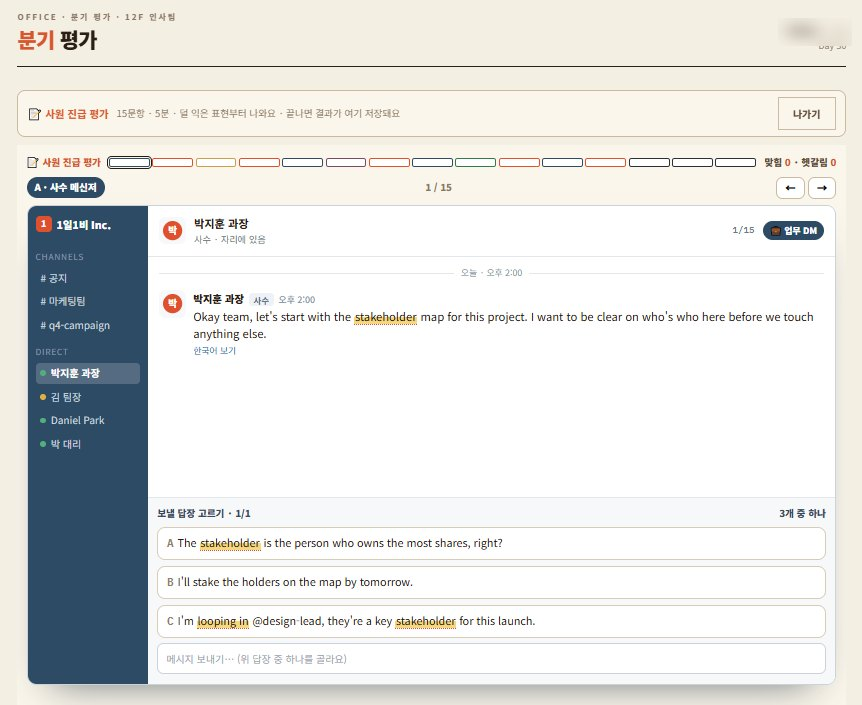
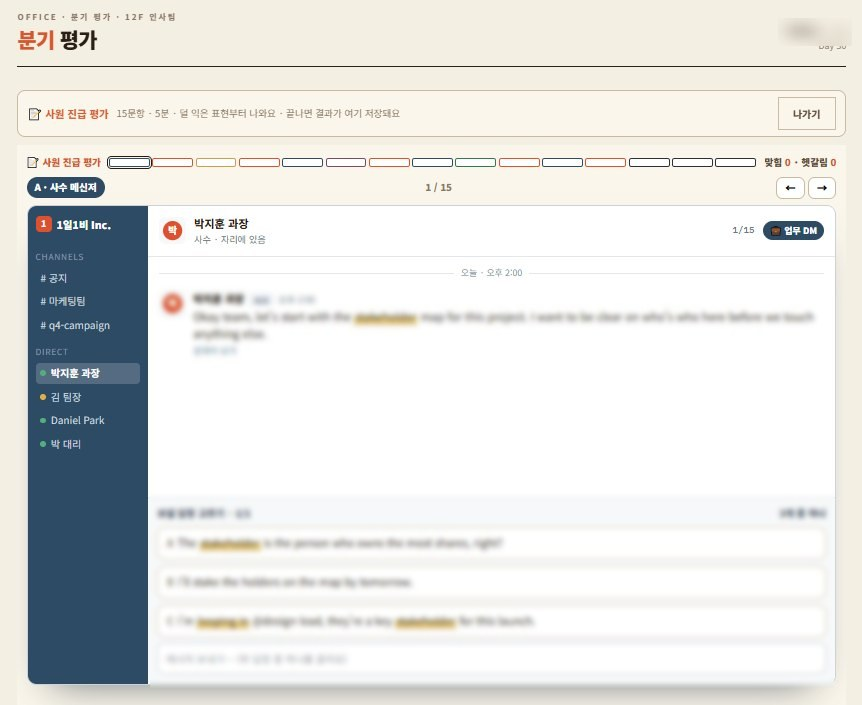
onboarding-jiheun: 글자 크기 10% 단위, 후기 자동 흐름, 섹션 강조, 플랜 테두리 정리
- 글자 크기 가-/100%/가+ (50~150%, 10%씩)
- 후기 숫자 변경, 한마디 띠 강조, 후기 카드 자동으로 흐르게
- AS SEEN ON, WHY 제목 강조, WHY 설명 문구 삭제
- 진급 시험·리포트 화면 내용 약하게 블러
- 웰컴 키트 대상 플랜 강조, 달력 3종 중 택1
- 플랜 주황 테두리는 패스트트랙만, 사은품 칩 톤 통일, 인턴 미포함 강조

Claude-Session: https://claude.ai/code/session_014xD68pVUsVy62miij5X9xC

diff --git a/onboarding-jiheun.html b/onboarding-jiheun.html
@@ -1030,8 +1030,8 @@ function WelcomeScreenV3({ onNext, initialLogin }) {
   const [journal, setJournal] = useState("");
   const [jrLoading, setJrLoading] = useState(false);
   const [jrFb, setJrFb] = useState(null);          // 일지 AI 피드백 (실제 mentor-feedback 함수 호출)
-  const [fontScale, setFontScale] = useState(() => { try { const v = parseFloat(localStorage.getItem("od_fs")); return v >= 0.85 && v <= 1.2 ? v : 1; } catch (e) { return 1; } });  // 글자 크기 (보는 사람이 고름)
-  const _setFs = (v) => { setFontScale(v); try { localStorage.setItem("od_fs", String(v)); } catch (e) {} try { track("font_scale", { v: v }); } catch (e) {} };
+  const [fontScale, setFontScale] = useState(() => { try { const v = parseFloat(localStorage.getItem("od_fs")); return v >= 0.5 && v <= 1.5 ? Math.round(v * 10) / 10 : 1; } catch (e) { return 1; } });  // 글자 크기 (보는 사람이 고름)
+  const _setFs = (v) => { v = Math.min(1.5, Math.max(0.5, Math.round(v * 10) / 10)); setFontScale(v); try { localStorage.setItem("od_fs", String(v)); } catch (e) {} try { track("font_scale", { v: v }); } catch (e) {} };
 
   const askJournalAi = async () => {
     if (jrLoading) return;
@@ -1407,6 +1407,7 @@ function WhyMock({ kind }) {
       @keyframes odRise { from { transform: translateY(10px); opacity: 0; } to { transform: translateY(0); opacity: 1; } }
       .od-rise { animation: odRise 0.4s ease both; }
       @keyframes odTicker { from { transform: translateX(0); } to { transform: translateX(-50%); } }
+      .od-rv-track:hover, .od-rv-track:active { animation-play-state: paused !important; }
       .od-ticker-track { display: inline-flex; white-space: nowrap; animation: odTicker 72s linear infinite; will-change: transform; font-family: "JetBrains Mono", monospace; }
       .od-bar-cta-short { display: none; }
       /* ★ 2026-09-13: 하단 고정 CTA. 엄지가 닿는 자리라 모바일에서만 (데스크톱은 상단바로 충분) */
@@ -1439,11 +1440,12 @@ function WhyMock({ kind }) {
         <div className="od-bar-title" style={{ fontSize: 12.5, fontWeight: 800, color: "var(--ink)", whiteSpace: "nowrap", overflow: "hidden", textOverflow: "ellipsis" }}>
           1일1비 <span className="od-bar-sub" style={{ fontWeight: 600, color: "var(--ink-mute)" }}>· 신입 공채 접수 중</span>
         </div>
-        <div role="group" aria-label="글자 크기" style={{ display: "inline-flex", flexShrink: 0, border: "1px solid var(--line)", borderRadius: 8, overflow: "hidden", marginLeft: "auto" }}>
-          {[[0.9, 11, "작게"], [1, 13.5, "보통"], [1.12, 16, "크게"]].map(o => (
-            <button key={o[0]} onClick={() => _setFs(o[0])} aria-label={"글자 " + o[2]} aria-pressed={fontScale === o[0]}
-              style={{ width: 30, height: 32, border: "none", borderLeft: o[0] === 0.9 ? "none" : "1px solid var(--line)", background: fontScale === o[0] ? "var(--ink)" : "transparent", color: fontScale === o[0] ? "var(--paper)" : "var(--ink)", fontSize: o[1], fontWeight: 900, cursor: "pointer", fontFamily: "inherit", padding: 0, lineHeight: 1 }}>가</button>
-          ))}
+        <div role="group" aria-label="글자 크기" style={{ display: "inline-flex", alignItems: "center", gap: 4, flexShrink: 0, marginLeft: "auto" }}>
+          {[[-0.1, "가-", "글자 작게"], [0, null, null], [0.1, "가+", "글자 크게"]].map(o => o[1] === null
+            ? <button key="fs" onClick={() => _setFs(1)} aria-label="글자 크기 원래대로" style={{ minWidth: 38, border: "none", background: "transparent", color: "var(--ink-soft)", fontSize: 11, fontWeight: 800, cursor: "pointer", fontFamily: "inherit", padding: 0, fontVariantNumeric: "tabular-nums" }}>{Math.round(fontScale * 100)}%</button>
+            : <button key={o[1]} onClick={() => _setFs(fontScale + o[0])} aria-label={o[2]} disabled={o[0] < 0 ? fontScale <= 0.5 : fontScale >= 1.5}
+                style={{ height: 30, padding: "0 7px", border: "1px solid var(--line)", borderRadius: 8, background: "var(--paper)", color: "var(--ink)", fontSize: 12, fontWeight: 900, cursor: "pointer", fontFamily: "inherit", lineHeight: 1, opacity: (o[0] < 0 ? fontScale <= 0.5 : fontScale >= 1.5) ? 0.35 : 1 }}>{o[1]}</button>
+          )}
         </div>
         <button onClick={() => setShowEnter(true)} className="od-bar-enter"
           style={{ flexShrink: 0, background: "transparent", color: "var(--ink)", border: "1.5px solid var(--ink)", borderRadius: 8, padding: "8px 14px", fontSize: 12, fontWeight: 800, cursor: "pointer", fontFamily: "inherit", whiteSpace: "nowrap" }}>
@@ -1647,7 +1649,7 @@ function WhyMock({ kind }) {
       {/* ── 후기: 설문 숫자 + 흐르는 한마디 + 후기 카드 + 요청이 반영된 것 ── */}
       <SectionTitle eyebrow="REVIEWS" title="먼저 다녀본 분들의 이야기" sub="멤버 설문·30일 수료 회고에서 그대로 가져왔어요. 이름은 빼고 Day만 남겼어요." />
       <div style={{ display: "grid", gridTemplateColumns: "repeat(3, minmax(0, 1fr))", gap: 6, marginBottom: 12 }}>
-        {[["4.4", "/ 5", "설문 만족도 평균"], ["8건", "★5", "만점 응답"], ["Day 89", "★5", "90일 가까이 다닌 멤버"]].map(s => (
+        {[["4.8", "/ 5", "설문 만족도 평균"], ["100점", "", "30일 수료 시험"], ["Day 89", "★5", "90일 가까이 다닌 멤버"]].map(s => (
           <div key={s[2]} style={{ background: "var(--ink)", color: "var(--paper)", borderRadius: 11, padding: "11px 4px", textAlign: "center" }}>
             <div style={{ fontSize: 17, fontWeight: 900, color: "#F0A67E", letterSpacing: "-0.02em" }}>{s[0]}<span style={{ fontSize: 10, color: "#D9CDB8", marginLeft: 3 }}>{s[1]}</span></div>
             <div style={{ fontSize: 10, color: "#D9CDB8", marginTop: 3 }}>{s[2]}</div>
@@ -1655,14 +1657,15 @@ function WhyMock({ kind }) {
         ))}
       </div>
 
-      <div style={{ fontSize: 10.5, fontWeight: 800, letterSpacing: "0.12em", color: "var(--ink-mute)", marginBottom: 7 }}>1일1비를 한마디로 정의하면</div>
+      <div style={{ background: "#FFF3EA", border: "1.5px solid rgba(216,90,42,0.35)", borderRadius: 14, padding: "12px 0 6px", margin: "0 -4px 6px" }}>
+      <div style={{ textAlign: "center", fontSize: 13, fontWeight: 900, color: "var(--ink)", marginBottom: 9 }}>💬 멤버들이 <span style={{ color: "var(--accent)" }}>한마디로 정의</span>한 1일1비</div>
       {[0, 1].map(row => {
         const items = row === 0
           ? [["부담 없이 루틴이 되는 비즈니스 영어 스터디", "Day 8"], ["외국계 체험 가능", "Day 11"], ["진짜 좋아!", "Day 88"], ["영어 버디", "Day 8"], ["실무 비즈니스 단어장", "Day 9"]]
           : [["실전 상황 대처를 영어로 하는 법을 배우는 앱", "Day 15"], ["비즈니스 표현 배울 수 있는 앱", "Day 89"], ["쉽고 빨라요", "베타 10일"], ["진짜 비즈니스 영어", "Day 40"], ["롤플레잉하니까 단어가 더 잘 외워져요", "30일 완주"]];
         const chips = items.map((c, i) => (
-          <span key={row + "-" + i} style={{ flexShrink: 0, display: "inline-flex", alignItems: "center", gap: 6, background: row ? "var(--paper-warm)" : "var(--paper)", border: "1px solid var(--line)", borderRadius: 999, padding: "7px 12px", marginRight: 7, fontSize: 12, fontWeight: 800, color: "var(--ink)", whiteSpace: "nowrap" }}>
-            “{c[0]}” <span style={{ fontSize: 10, fontWeight: 700, color: "var(--ink-mute)" }}>{c[1]}</span>
+          <span key={row + "-" + i} style={{ flexShrink: 0, display: "inline-flex", alignItems: "center", gap: 6, background: row ? "var(--paper)" : "var(--accent)", border: row ? "1.5px solid rgba(216,90,42,0.45)" : "none", borderRadius: 999, padding: "8px 14px", marginRight: 8, fontSize: 13, fontWeight: 900, color: row ? "var(--ink)" : "#fff", whiteSpace: "nowrap", boxShadow: "0 4px 10px -8px rgba(42,31,20,0.7)" }}>
+            “{c[0]}” <span style={{ fontSize: 10, fontWeight: 700, color: row ? "var(--ink-mute)" : "rgba(255,255,255,0.8)" }}>{c[1]}</span>
           </span>
         ));
         return (
@@ -1673,9 +1676,9 @@ function WhyMock({ kind }) {
           </div>
         );
       })}
+      </div>
 
-      <div style={{ display: "flex", gap: 9, overflowX: "auto", scrollSnapType: "x mandatory", padding: "6px 4px 6px", margin: "4px -4px 0", WebkitOverflowScrolling: "touch" }}>
-        {[
+      {(() => { const cards = [
           ["간단하게 부담 없이 하루에 하나씩 할 수 있어서 좋고, <b>진짜 비즈니스 영어</b>라 도움 돼요.", "Day 40 멤버 · 주간 설문", 5],
           ["매일 하기는 어려웠는데 <b>롤플레잉을 하니까 단어가 더 잘 외워졌어요!</b>", "30일 완주 멤버", 5],
           ["업무 상황처럼 재미있게 배울 수 있었고, <b>한 달 사이에도 점점 사용하기 편해졌어요.</b>", "30일 완주 · 수료 시험 100점", 0],
@@ -1692,14 +1695,20 @@ function WhyMock({ kind }) {
           ["<b>만들어놓으신 단어들</b>이 정말 너무 좋았어요!", "30일 완주 멤버 · 회고", 5],
           ["점심 대화가 랜덤 말고 <b>매일 있으면 좋겠어요.</b> (더 달라는 요청이 최고의 후기죠)", "30일 완주 멤버 · 요청", 5],
         ].map((r, i) => (
-          <div key={i} style={{ flex: "0 0 70%", scrollSnapAlign: "start", background: "var(--paper)", border: "1px solid var(--line)", borderRadius: 12, padding: "12px 13px", display: "flex", flexDirection: "column", gap: 7, boxShadow: "0 6px 16px -14px rgba(42,31,20,0.6)" }}>
+          <div key={i} style={{ flex: "0 0 auto", width: 230, marginRight: 9, background: "var(--paper)", border: "1px solid var(--line)", borderRadius: 12, padding: "12px 13px", display: "flex", flexDirection: "column", gap: 7, boxShadow: "0 6px 16px -14px rgba(42,31,20,0.6)" }}>
             <div style={{ fontSize: 11.5, letterSpacing: "0.06em", color: r[2] ? "#E0A23A" : "var(--line)" }}>{r[2] === 5 ? "★★★★★" : r[2] === 4 ? "★★★★☆" : "❝"}</div>
             <div style={{ fontSize: 12, color: "var(--ink-soft)", lineHeight: 1.6, flex: 1 }} dangerouslySetInnerHTML={{ __html: r[0] }} />
             <div style={{ fontSize: 10, color: "var(--ink-mute)", fontWeight: 700 }}>{r[1]}</div>
           </div>
-        ))}
-      </div>
-      <div style={{ fontSize: 10.5, color: "var(--ink-mute)", textAlign: "center", margin: "2px 0 12px" }}>← 옆으로 넘겨보세요 · 후기 15개 →</div>
+        ));
+        return (
+          <div style={{ overflow: "hidden", margin: "4px -4px 0", padding: "6px 0", maskImage: "linear-gradient(90deg, transparent, #000 5%, #000 95%, transparent)", WebkitMaskImage: "linear-gradient(90deg, transparent, #000 5%, #000 95%, transparent)" }}>
+            <div className="od-rv-track" style={{ display: "inline-flex", alignItems: "stretch", animation: "odTicker 110s linear infinite" }}>
+              {cards}{cards.map((c, i) => React.cloneElement(c, { key: "d" + i, "aria-hidden": true }))}
+            </div>
+          </div>
+        ); })()}
+      <div style={{ fontSize: 10.5, color: "var(--ink-mute)", textAlign: "center", margin: "2px 0 12px" }}>후기 15개가 계속 흘러가요 · 누르고 있으면 잠깐 멈춰요</div>
 
       <div style={{ background: "var(--paper-warm)", border: "1px solid var(--line)", borderRadius: 12, padding: "12px 13px" }}>
         <div style={{ fontSize: 12.5, fontWeight: 900, color: "var(--ink)", marginBottom: 8 }}>멤버 요청이 이렇게 반영됐어요</div>
@@ -1718,7 +1727,7 @@ function WhyMock({ kind }) {
       <Divider />
 
       {/* ── AS SEEN ON: 숫자 + 칼럼 ── */}
-      <SectionTitle eyebrow="AS SEEN ON" title="이미 이만큼 함께하고 있어요" />
+      <SectionTitle eyebrow="AS SEEN ON" title={<>이미 <span style={{ color: "var(--accent)", background: "linear-gradient(transparent 60%, rgba(216,90,42,0.18) 60%)" }}>이만큼</span> 함께하고 있어요</>} />
       <div style={{ display: "grid", gridTemplateColumns: "repeat(3, minmax(0, 1fr))", gap: 7, marginBottom: 9 }}>
         {[
           ["3.6만", "인스타그램 팔로워", "@youbuddy_day", "https://www.instagram.com/youbuddy_day/"],
@@ -1726,11 +1735,11 @@ function WhyMock({ kind }) {
           ["50명+", "1일1비 누적 입사", "베타·유료 멤버", null],
         ].map(x => {
           const inner = (<>
-            <div style={{ fontSize: 16.5, fontWeight: 900, color: "var(--accent)", letterSpacing: "-0.02em" }}>{x[0]}</div>
+            <div style={{ fontSize: 21, fontWeight: 900, color: "var(--accent)", letterSpacing: "-0.03em" }}>{x[0]}</div>
             <div style={{ fontSize: 11, fontWeight: 800, color: "var(--ink)", marginTop: 4, lineHeight: 1.35 }}>{x[1]}</div>
             <div style={{ fontSize: 10, color: "var(--ink-mute)", marginTop: 2 }}>{x[2]}{x[3] ? " ↗" : ""}</div>
           </>);
-          const st = { display: "block", background: "var(--paper)", border: "1px solid var(--line)", borderRadius: 11, padding: "12px 6px", textAlign: "center", textDecoration: "none" };
+          const st = { display: "block", background: "#FFF3EA", border: "1.5px solid rgba(216,90,42,0.45)", borderRadius: 12, padding: "14px 6px", textAlign: "center", textDecoration: "none", boxShadow: "0 8px 18px -14px rgba(216,90,42,0.8)" };
           return x[3] ? <a key={x[1]} href={x[3]} target="_blank" rel="noopener" onClick={() => track("asseen_click", { k: x[1] })} style={st}>{inner}</a> : <div key={x[1]} style={st}>{inner}</div>;
         })}
       </div>
@@ -1775,7 +1784,10 @@ function WhyMock({ kind }) {
       <Divider />
 
       {/* ── WHY 1일1비: 실제 화면으로 보는 습관 구조 ── */}
-      <SectionTitle eyebrow="WHY 1일1비" title={<>그저 단어 외우기가 아니라,<br/>표현이 자연스럽게 나올 수밖에 없게<br/>만드는 구조를 만들었습니다</>} sub="실제 화면 그대로예요. 이름과 단어는 가렸어요." />
+      <div style={{ textAlign: "center", background: "linear-gradient(180deg, #FFF3EA, rgba(255,243,234,0))", borderTop: "3px solid var(--accent)", borderRadius: "14px 14px 0 0", padding: "20px 10px 6px", margin: "0 -4px 16px" }}>
+        <div style={{ display: "inline-block", fontSize: 10.5, fontWeight: 900, letterSpacing: "0.2em", color: "#fff", background: "var(--accent)", borderRadius: 999, padding: "4px 11px", marginBottom: 10 }}>WHY 1일1비</div>
+        <h2 style={{ fontSize: 19.5, fontWeight: 900, lineHeight: 1.42, margin: 0, color: "var(--ink)", letterSpacing: "-0.015em" }}>그저 단어 외우기가 아니라,<br/>표현이 <span style={{ color: "var(--accent)" }}>자연스럽게 나올 수밖에 없게</span><br/>만드는 <span style={{ background: "linear-gradient(transparent 58%, rgba(216,90,42,0.22) 58%)" }}>구조를 만들었습니다</span></h2>
+      </div>
       <div style={{ display: "flex", flexWrap: "wrap", gap: 5, justifyContent: "center", marginBottom: 14 }}>
         {["📅 일정표", "🔥 연속 출근", "📒 업무 노트", "🏆 주간 순위", "✍ AI 첨삭", "💬 버디 질문", "🎁 복지몰", "🎓 진급 시험", "📑 진급 리포트"].map(t => (
           <span key={t} style={{ fontSize: 10.5, fontWeight: 800, color: "var(--ink-soft)", background: "var(--paper-warm)", border: "1px solid var(--line)", borderRadius: 999, padding: "4px 9px" }}>{t}</span>
@@ -1967,7 +1979,7 @@ function WhyMock({ kind }) {
 
       <Divider />
 
-      <SectionTitle eyebrow="WELCOME KIT" title={<>3차 공채 입사자께<br/>드리는 웰컴 키트</>} sub="지금 결제하시면 실물로 집까지 보내드려요. 3개월권은 제외예요." />
+      <SectionTitle eyebrow="WELCOME KIT" title={<>3차 공채 입사자께<br/>드리는 웰컴 키트</>} sub="지금 결제하시면 실물로 집까지 보내드려요." />
       <div style={{ position: "relative", borderRadius: 14, overflow: "hidden", border: "1px solid var(--line)", marginBottom: 10 }}>
         <img src="img/gift-workbook.png" alt="1일1비 WorkBook 표지와 속지" style={{ display: "block", width: "100%" }} />
         <img src="img/gift-calendar.png" alt="1일1비 상반기 영어 달력 세 가지 디자인" style={{ display: "block", width: "100%" }} />
@@ -1999,7 +2011,7 @@ function WhyMock({ kind }) {
         {[
           { tag: "GIFT 01", nm: "1일1비 WorkBook", val: "30,000원 상당", sub: "승진 패스트트랙 · 임원 트랙",
             li: "<b>나만의 비즈니스 영어 WorkBook</b>이에요. Day 1~90 표현이 한 쪽에 하나씩, 실제 슬랙 대화와 사수 노트, 예문 세 줄까지 담겼어요. 빈칸에 <b>내 문장</b>을 채우다 보면 90일 뒤엔 내가 쓴 책이 돼요." },
-          { tag: "GIFT 02", nm: "1일1비 상반기 영어 달력 (3종)", val: "15,000원 상당", sub: "A1 포스터 · 정규직 · 패스트트랙 · 임원 트랙",
+          { tag: "GIFT 02", nm: "1일1비 상반기 영어 달력 (3종 중 택1)", val: "15,000원 상당", sub: "정규직 · 패스트트랙 · 임원 트랙", size: "A1 포스터",
             li: "책상 앞에 붙여두기만 해도 <b>매일 오늘의 표현이 눈에 들어와요.</b> 1월부터 6월까지 하루 한 칸씩, 써먹은 날은 체크하면서 채워가요. 주황 바탕 · 주황 포인트 · 6칸 스트립 <b>세 가지 디자인 중에 골라요.</b>" },
         ].map(g => (
           <div key={g.nm} style={{ background: "var(--paper)", border: "1px solid var(--line)", borderRadius: 12, padding: "12px 13px" }}>
@@ -2008,7 +2020,10 @@ function WhyMock({ kind }) {
               <span style={{ fontSize: 13.5, fontWeight: 900, color: "var(--ink)" }}>{g.nm}</span>
               <span style={{ marginLeft: "auto", fontSize: 11.5, fontWeight: 900, color: "#fff", background: "var(--accent)", borderRadius: 999, padding: "3px 10px" }}>{g.val}</span>
             </div>
-            <div style={{ fontSize: 10.5, color: "var(--ink-mute)", marginTop: 3 }}>{g.sub}</div>
+            <div style={{ display: "flex", alignItems: "center", gap: 6, flexWrap: "wrap", marginTop: 7 }}>
+              <span style={{ fontSize: 11.5, fontWeight: 900, color: "var(--accent)", background: "rgba(216,90,42,0.1)", border: "1px solid rgba(216,90,42,0.35)", borderRadius: 7, padding: "3px 9px" }}>🎯 {g.sub} 결제 시</span>
+              {g.size && <span style={{ fontSize: 10.5, color: "var(--ink-mute)" }}>{g.size}</span>}
+            </div>
             <div style={{ fontSize: 12, color: "var(--ink-soft)", lineHeight: 1.7, marginTop: 7 }} dangerouslySetInnerHTML={{ __html: g.li }} />
           </div>
         ))}
@@ -2073,7 +2088,8 @@ function WhyMock({ kind }) {
       ].map(p => (
         <div key={p.id} style={{
           background: p.best ? "#FFF3EA" : "#FFF8F2",
-          border: (p.best ? "2px" : "1.5px") + " solid rgba(216,90,42," + (p.best ? "0.75" : "0.45") + ")",
+          border: p.best ? "2px solid rgba(216,90,42,0.8)" : "1px solid var(--line)",
+          boxShadow: p.best ? "0 10px 22px -16px rgba(216,90,42,0.9)" : "none",
           borderRadius: 13, padding: "14px 15px", marginBottom: 9,
         }}>
           <div style={{ display: "flex", alignItems: "center", gap: 7, flexWrap: "wrap" }}>
@@ -2090,10 +2106,10 @@ function WhyMock({ kind }) {
             {p.total && <span style={{ fontSize: 12, fontWeight: 900, color: "var(--accent)" }}>총 {p.total} 혜택</span>}
           </div>
           {p.gift && (
-            <div style={{ marginTop: 9, background: p.strong ? "var(--accent)" : "rgba(216,90,42,0.1)", color: p.strong ? "#fff" : "var(--accent)", borderRadius: 8, padding: "7px 10px", fontSize: 11.5, fontWeight: 900 }}>🎁 {p.gift}</div>
+            <div style={{ marginTop: 9, background: "rgba(216,90,42,0.1)", color: "var(--accent)", borderRadius: 8, padding: "7px 10px", fontSize: 11.5, fontWeight: 900 }}>🎁 {p.gift}</div>
           )}
           {p.nogift && (
-            <div style={{ marginTop: 9, display: "inline-block", border: "1px dashed var(--ink-mute)", color: "var(--ink-mute)", borderRadius: 8, padding: "4px 9px", fontSize: 10.5, fontWeight: 800 }}>사은품 미포함</div>
+            <div style={{ marginTop: 9, background: "rgba(42,31,20,0.06)", border: "1.5px dashed var(--ink-soft)", color: "var(--ink)", borderRadius: 8, padding: "7px 10px", fontSize: 11.5, fontWeight: 900 }}>⚠ 사은품 미포함 <span style={{ fontWeight: 700, color: "var(--ink-mute)", fontSize: 10.5 }}>(WorkBook · 영어 달력 없음)</span></div>
           )}
           <div style={{ display: "flex", flexWrap: "wrap", gap: 5, marginTop: 9 }}>
             {p.li.map(x => <span key={x} style={{ fontSize: 10.5, color: "var(--ink-soft)", background: "var(--paper)", borderRadius: 6, padding: "3px 7px" }}>{x}</span>)}
@@ -2233,7 +2249,7 @@ function WhyMock({ kind }) {
           ["영어 왕초보인데 할 수 있나요?", "Day 1은 비교적 쉬운 (빈도가 높은) 단어부터 나와요. 승급할수록 빈도가 낮고 긴 어구가 나오고, 대리가 되면 협상·피플·문서·미팅 중에서 내 일에 맞는 트랙을 골라 배우실 수 있답니다. 모든 영어 문장에 한국어 해석이 붙고, 위 데모 난이도가 실제 Day 1 난이도예요."],
           ["하루 놓치면 어떻게 되나요?", "자동으로 다음 날 어휘로 넘어가지 않아서 매일 해주시는 걸 권장합니다. 다만 밀린 어휘를 다 하면 열린 날까지 몰아서 학습할 수 있어요. 하루 안 했다고 다음 날 것까지 못 하지는 않아요."],
           ["바로 결제해도 7일 무료가 있나요?", "네, 바로 결제하셔도 7일 무료는 포함돼요. 7일 무료가 먼저 시작되고, 결제한 기간은 그 뒤에 이어져요."],
-          ["영어 달력은 어떻게 받나요?", "결제하시면 1일1비 상반기 영어 달력 (3종 중 선택)을 집으로 보내드려요. 3개월권만 빼고 모든 플랜에 드려요. 배송지는 카톡 채널로 여쭤볼게요."],
+          ["영어 달력은 어떻게 받나요?", "결제하시면 1일1비 상반기 영어 달력 (3종 중 택1)을 집으로 보내드려요. 3개월권만 빼고 모든 플랜에 드려요. 배송지는 카톡 채널로 여쭤볼게요."],
           ["결제하면 바로 시작되나요?", <>결제 후에 <a href="http://pf.kakao.com/_RXxcxaX" target="_blank" rel="noopener" style={{ color: "var(--accent)", fontWeight: 800 }}>1일1비 카톡 채널</a>로 입사 코드를 보내드려요. 지원서에 그 코드를 넣으시면 사번이 바로 발급되고, 그날부터 Day 1이에요. 궁금한 건 채널로 바로 물어보시면 돼요.</>],
           ["결제 기간이 끝나면 기록은 사라지나요?", "결제 기간이 끝나도 표현 노트와 진도는 2개월간 보관돼요. 그 안에 다시 결제하시면 하던 Day부터 이어집니다. 2개월이 지나면 기록은 삭제돼요."],
           ["누구한테 잘 맞나요?", "솔직하게 먼저 말씀드릴게요. 토익·오픽 점수가 목표인 분은 맞지 않아요. 시험에 나오는 표현이 아니라, 외국계 사무실에서 실제로 오가는 말을 모았거든요. 점수에는 도움이 안 돼요. 대신 슬랙·메일·회의에서 영어를 이미 쓰고 계신 분이라면, 내일 회의에서 바로 쓸 한 문장을 매일 하나씩 가져가실 수 있어요."],
